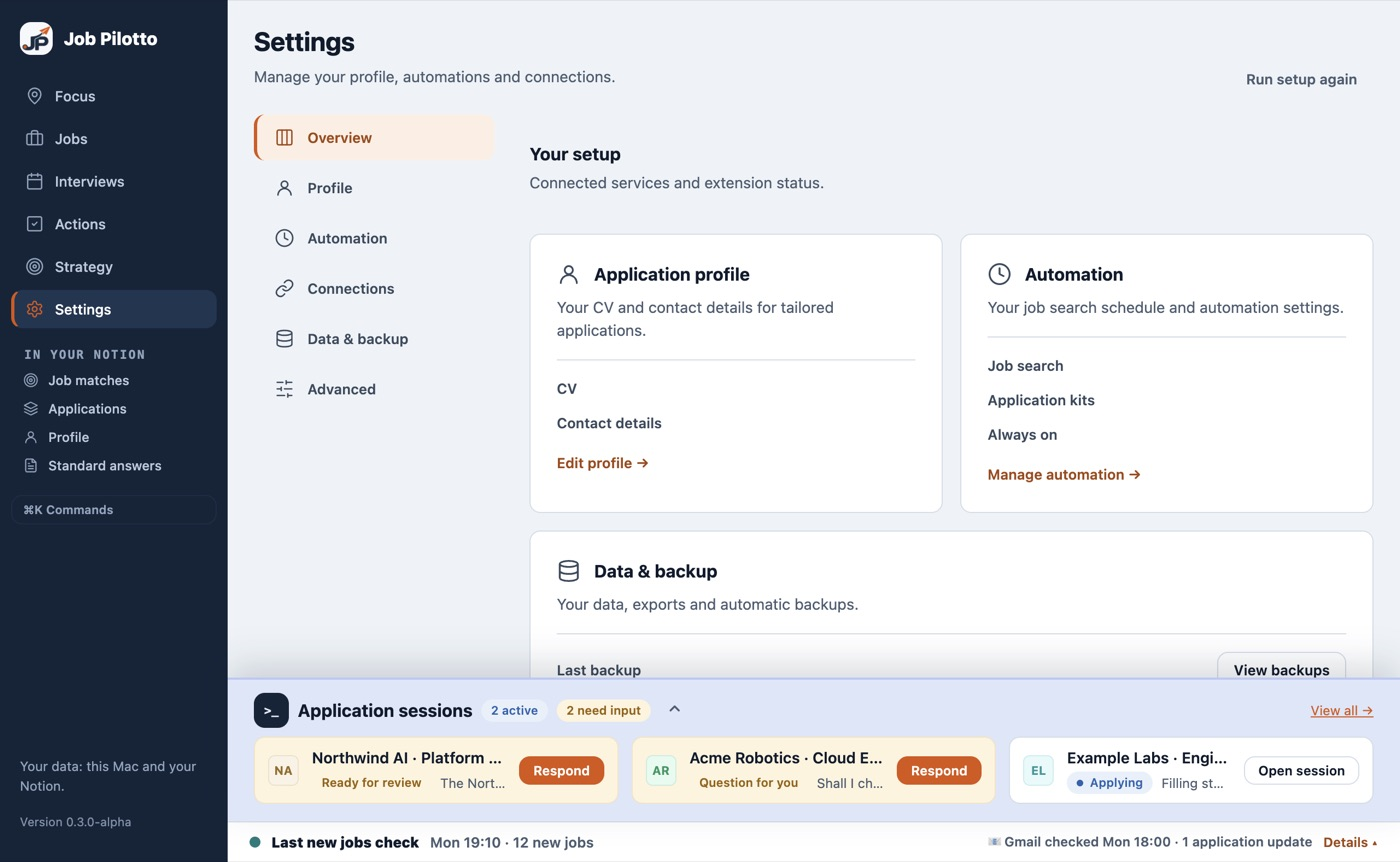
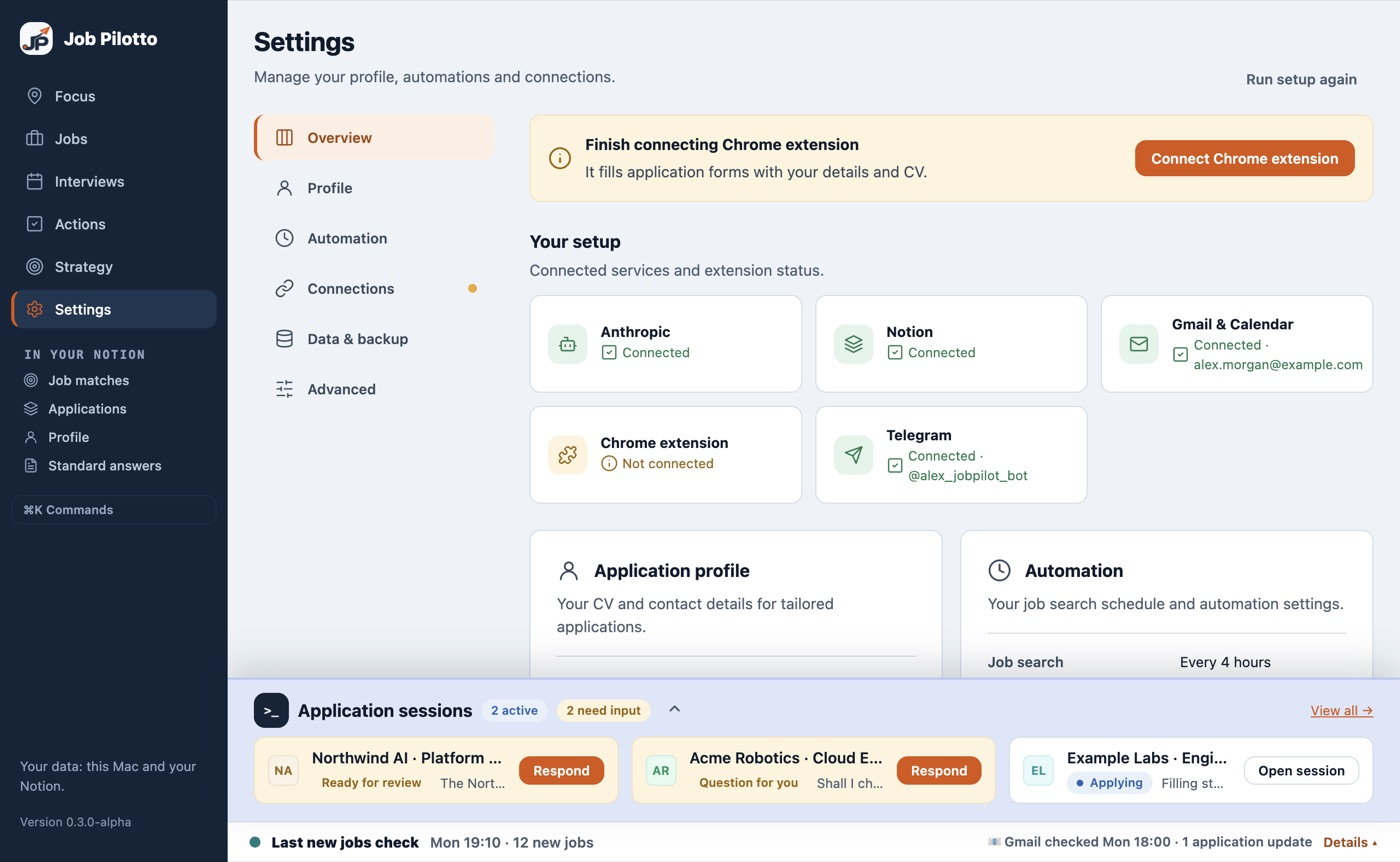
Demo mode: a fictional Google account (the reference screenshot showed the owner's address)
googleStatus ran the real check in demo mode, which reads this Mac's Google sign-in from the
Keychain, not the demo folder; Settings → Overview (docs/ui/settings.jpg) showed the owner's
Gmail address. Demo mode now answers with the fictional user's account. The website's demo
never opens that screen.

diff --git a/desktop/main.js b/desktop/main.js
@@ -740,6 +740,9 @@ function handlers() {
   // Gmail and Calendar (read-only): replies and interviews, and sign-up confirmation emails for Apply with Claude.
   // The token lives in the Keychain, where the Python side (src/sources/google.py) reads it.
   ipcMain.handle('googleStatus', async () => {
+    // Demo mode: the fictional user's account. The real check reads this Mac's Google sign-in (the Keychain, not the
+    // demo folder), which put the owner's own address into the reference screenshots.
+    if (DEMO) return {connected: true, email: 'alex.morgan@example.com'};
     const {stdout} = await pipeline.run(storage, ['src.sources.google', 'status']);
     try { return JSON.parse(stdout.trim().split('\n').pop()); } catch { return {connected: false}; }
   });
